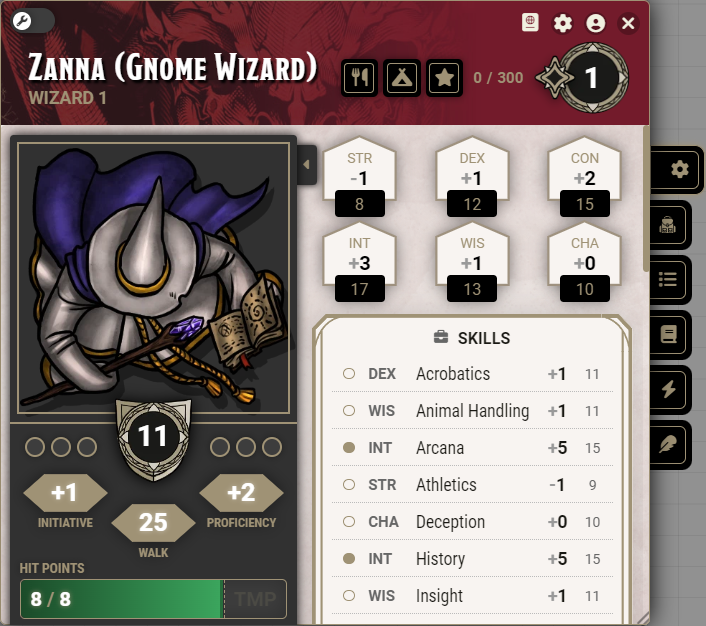
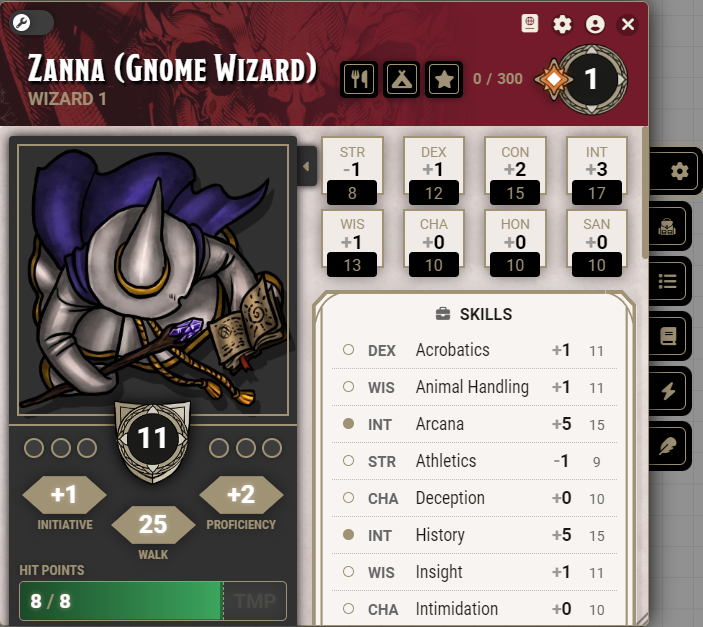
#40 - Improve CSS.

diff --git a/styles/custom-dnd5e-character-sheet.css b/styles/custom-dnd5e-character-sheet.css
@@ -6,6 +6,10 @@
 }
 
 .custom-dnd5e.dnd5e2.sheet.actor.character .sheet-header {
+    font-size: var(--font-size-23);
+    gap: 0.375rem;
+    display: flex;
+    flex-wrap: nowrap;
     padding-top: 25px;
 }
 
@@ -14,9 +18,15 @@
     gap: 0;
 }
 
-.custom-dnd5e.dnd5e2.sheet.actor.character .sheet-body .details .pills-lg {
-    min-width: 160px;
-    max-width: var(--skills-col-width);
+.custom-dnd5e.dnd5e2.sheet.actor.character
+    .sheet-header
+    > .left
+    .document-name {
+    font-size: var(--font-size-30);
+    letter-spacing: 1px;
+    white-space: nowrap;
+    text-overflow: ellipsis;
+    overflow: hidden;
 }
 
 .custom-dnd5e.dnd5e2.sheet.actor.character .sheet-header > .right {
@@ -57,22 +67,8 @@
     display: none;
 }
 
-.custom-dnd5e.dnd5e2.sheet.actor.character
-    .sheet-header
-    > .left
-    .document-name {
-    font-size: var(--font-size-30);
-    letter-spacing: 1px;
-    white-space: nowrap;
-    text-overflow: ellipsis;
-    overflow: hidden;
-}
-
-.custom-dnd5e.dnd5e2.sheet.actor.character .sheet-header {
-    font-size: var(--font-size-23);
-    gap: 0.375rem;
-    display: flex;
-    flex-wrap: nowrap;
+.custom-dnd5e.dnd5e2.sheet.actor.character .sheet-body .tab-body .col-2 {
+    --skills-col-width: 230px;
 }
 
 .custom-dnd5e.dnd5e2.sheet.actor.character .tab-details .tab-body {
@@ -80,8 +76,20 @@
     padding-top: 0;
 }
 
+.custom-dnd5e.dnd5e2.sheet.actor.character .sheet-body .details .pills-lg {
+    min-width: 160px;
+}
+
 .custom-dnd5e.dnd5e2.sheet.actor.character .sheet-body .main-content {
     flex-wrap: wrap;
+}
+
+.custom-dnd5e.dnd5e2.sheet.actor.character .sheet-body .tab-body .col-2 {
+    display: flex;
+    flex-wrap: wrap;
+    flex-direction: row;
+    flex: 1 1 var(--skills-col-width);
+    gap: 0.7rem;
 }
 
 .custom-dnd5e.dnd5e2.sheet.actor.character .sheet-body .tab-body .col-2 > .left,
@@ -95,7 +103,7 @@
     .col-2
     > .left
     .skills {
-    min-width: var(--skills-col-width);
+   min-width: var(--skills-col-width);
 }
 
 .custom-dnd5e.dnd5e2.sheet.actor.character .ability-scores {
@@ -114,6 +122,7 @@
     justify-content: space-around;
     padding-bottom: 0.25rem;
     width: unset;
+    margin-left: unset;
 }
 
 .custom-dnd5e.dnd5e2.sheet.actor.character .ability-scores .rows > div {
@@ -152,24 +161,7 @@
     .score
     > input {
     width: 40px;
-}
-
-.custom-dnd5e.dnd5e2.sheet.actor.character .sheet-body .tab-body .col-2 {
-    display: flex;
-    flex-wrap: wrap;
-    flex-direction: row;
-    flex: 1 1 var(--skills-col-width);
-    gap: 0.7rem;
-}
-
-.cusom-dnd5e.dnd5e2.sheet.actor.character .sheet-body .tab-body .col-2 > .left {
-    max-width: var(--skills-col-width);
-    flex-wrap: wrap;
-}
-
-.custom-dnd5e.dnd5e2.sheet.actor.character .sheet-body .saves {
-    max-width: var(--skills-col-width);
-    min-width: 210px;
+    height: 22px;
 }
 
 @container (min-width: 700px) {
@@ -224,9 +216,12 @@
     gap: 0;
 }
 
+.custom-dnd5e.dnd5e2 .pill-lg {
+    max-width: unset;
+}
+
 .custom-dnd5e.dnd5e2.sheet.actor.character .sheet-body .details .pills-lg {
-    min-width: 160px;
-    max-width: var(--skills-col-width);
+    min-width: 160px
 }
 
 .custom-dnd5e.dnd5e2.sheet.actor.character .sheet-header > .right {
@@ -294,33 +289,35 @@
     flex-wrap: wrap;
 }
 
+custom-dnd5e.dnd5e2.sheet.actor.character .sheet-body .tab-body .col-2 {
+    --skills-col-width: 230px
+}
+
 .custom-dnd5e.dnd5e2.sheet.actor.character .sheet-body .tab-body .col-2 > .left,
 .custom-dnd5e.dnd5e2.sheet.actor.character .sheet-body .tab-body .col-2 .right {
     flex: 1 1 210px;
 }
 
-.custom-dnd5e.dnd5e2.sheet.actor.character
-    .sheet-body
-    .tab-body
-    .col-2
-    > .left
-    .skills {
-    min-width: var(--skills-col-width);
-}
-
 .custom-dnd5e.dnd5e2.sheet.actor.character .ability-scores {
-    position: unset;
     display: flex;
-    justify-content: space-around;
+    /* justify-content: space-around; */
     flex-wrap: wrap;
     width: 100%;
 }
 
 .custom-dnd5e.dnd5e2.sheet.actor.character .ability-scores .rows > div {
-    row-gap: 0.5rem;
-    justify-content: space-evenly;
+    justify-content: center;
     flex-wrap: wrap;
     min-height: 0;
+    column-gap: 1rem;
+    row-gap: 0.5rem;
+}
+
+.custom-dnd5e.dnd5e2.sheet.actor.character .ability-scores .ability-score::before {
+  background: unset;
+  background-color: var(--dnd5e-color-parchment);
+  border: 2px solid var(--dnd5e-color-gold);
+  height: 44px;
 }
 
 .custom-dnd5e.dnd5e2.sheet.actor.character .ability-scores .top {
@@ -328,13 +325,15 @@
 }
 
 .custom-dnd5e.dnd5e2.sheet.actor.character .ability-scores .ability-score {
-    width: 60px;
-    height: 60px;
+    width: 50px;
+    height: 50px;
+    padding-top: 0.375rem;
 }
 
 .custom-dnd5e.dnd5e2.sheet.actor.character .ability-scores .ability-score .mod {
-    padding: 0 0 0.1rem 0;
+    padding: 0;
     line-height: normal;
+    margin-top: -2px;
 }
 
 .custom-dnd5e.dnd5e2.sheet.actor.character
@@ -342,16 +341,10 @@
     .ability-score
     .score {
     width: 40px;
-    height: 22px;
+    height: 20px;
     font-size: var(--font-size-13);
-}
-
-.custom-dnd5e.dnd5e2.sheet.actor.character
-    .ability-scores
-    .ability-score
-    .score
-    > input {
-    width: 40px;
+    padding: 0.2rem;
+    margin-top: -1px;
 }
 
 .custom-dnd5e.dnd5e2.sheet.actor.character .sheet-body .tab-body .col-2 {
@@ -368,8 +361,7 @@
 }
 
 .custom-dnd5e.dnd5e2.sheet.actor.character .sheet-body .saves {
-    max-width: var(--skills-col-width);
-    min-width: 210px;
+    min-width: 230px;
 }
 
 @container (min-width: 700px) {
@@ -377,9 +369,23 @@
         justify-content: center;
         gap: 0rem;
         padding-top: 0rem;
-        width: unset;
+        width: 100%;
         margin: 0;
+        align-content: space-evenly;
     }
+}
+
+.custom-dnd5e.dnd5e2.sheet.actor.character .sheet-body .skills > ul > li,
+.custom-dnd5e.dnd5e2.sheet.actor.character .sheet-body .tools > ul > li,
+.custom-dnd5e.dnd5e2.sheet.actor.character .sheet-body .saves > ul > li {
+  padding: 0.3rem 0rem;
+  gap: 0.25rem;
+}
+
+.custom-dnd5e.dnd5e2.sheet.actor.character .sheet-body .skills select.ability,
+.custom-dnd5e.dnd5e2.sheet.actor.character .sheet-body .tools select.ability,
+.custom-dnd5e.dnd5e2.sheet.actor.character .sheet-body .saves select.ability {
+  margin-left: -4px;
 }
 
 .custom-dnd5e.dnd5e2 dnd5e-inventory {
